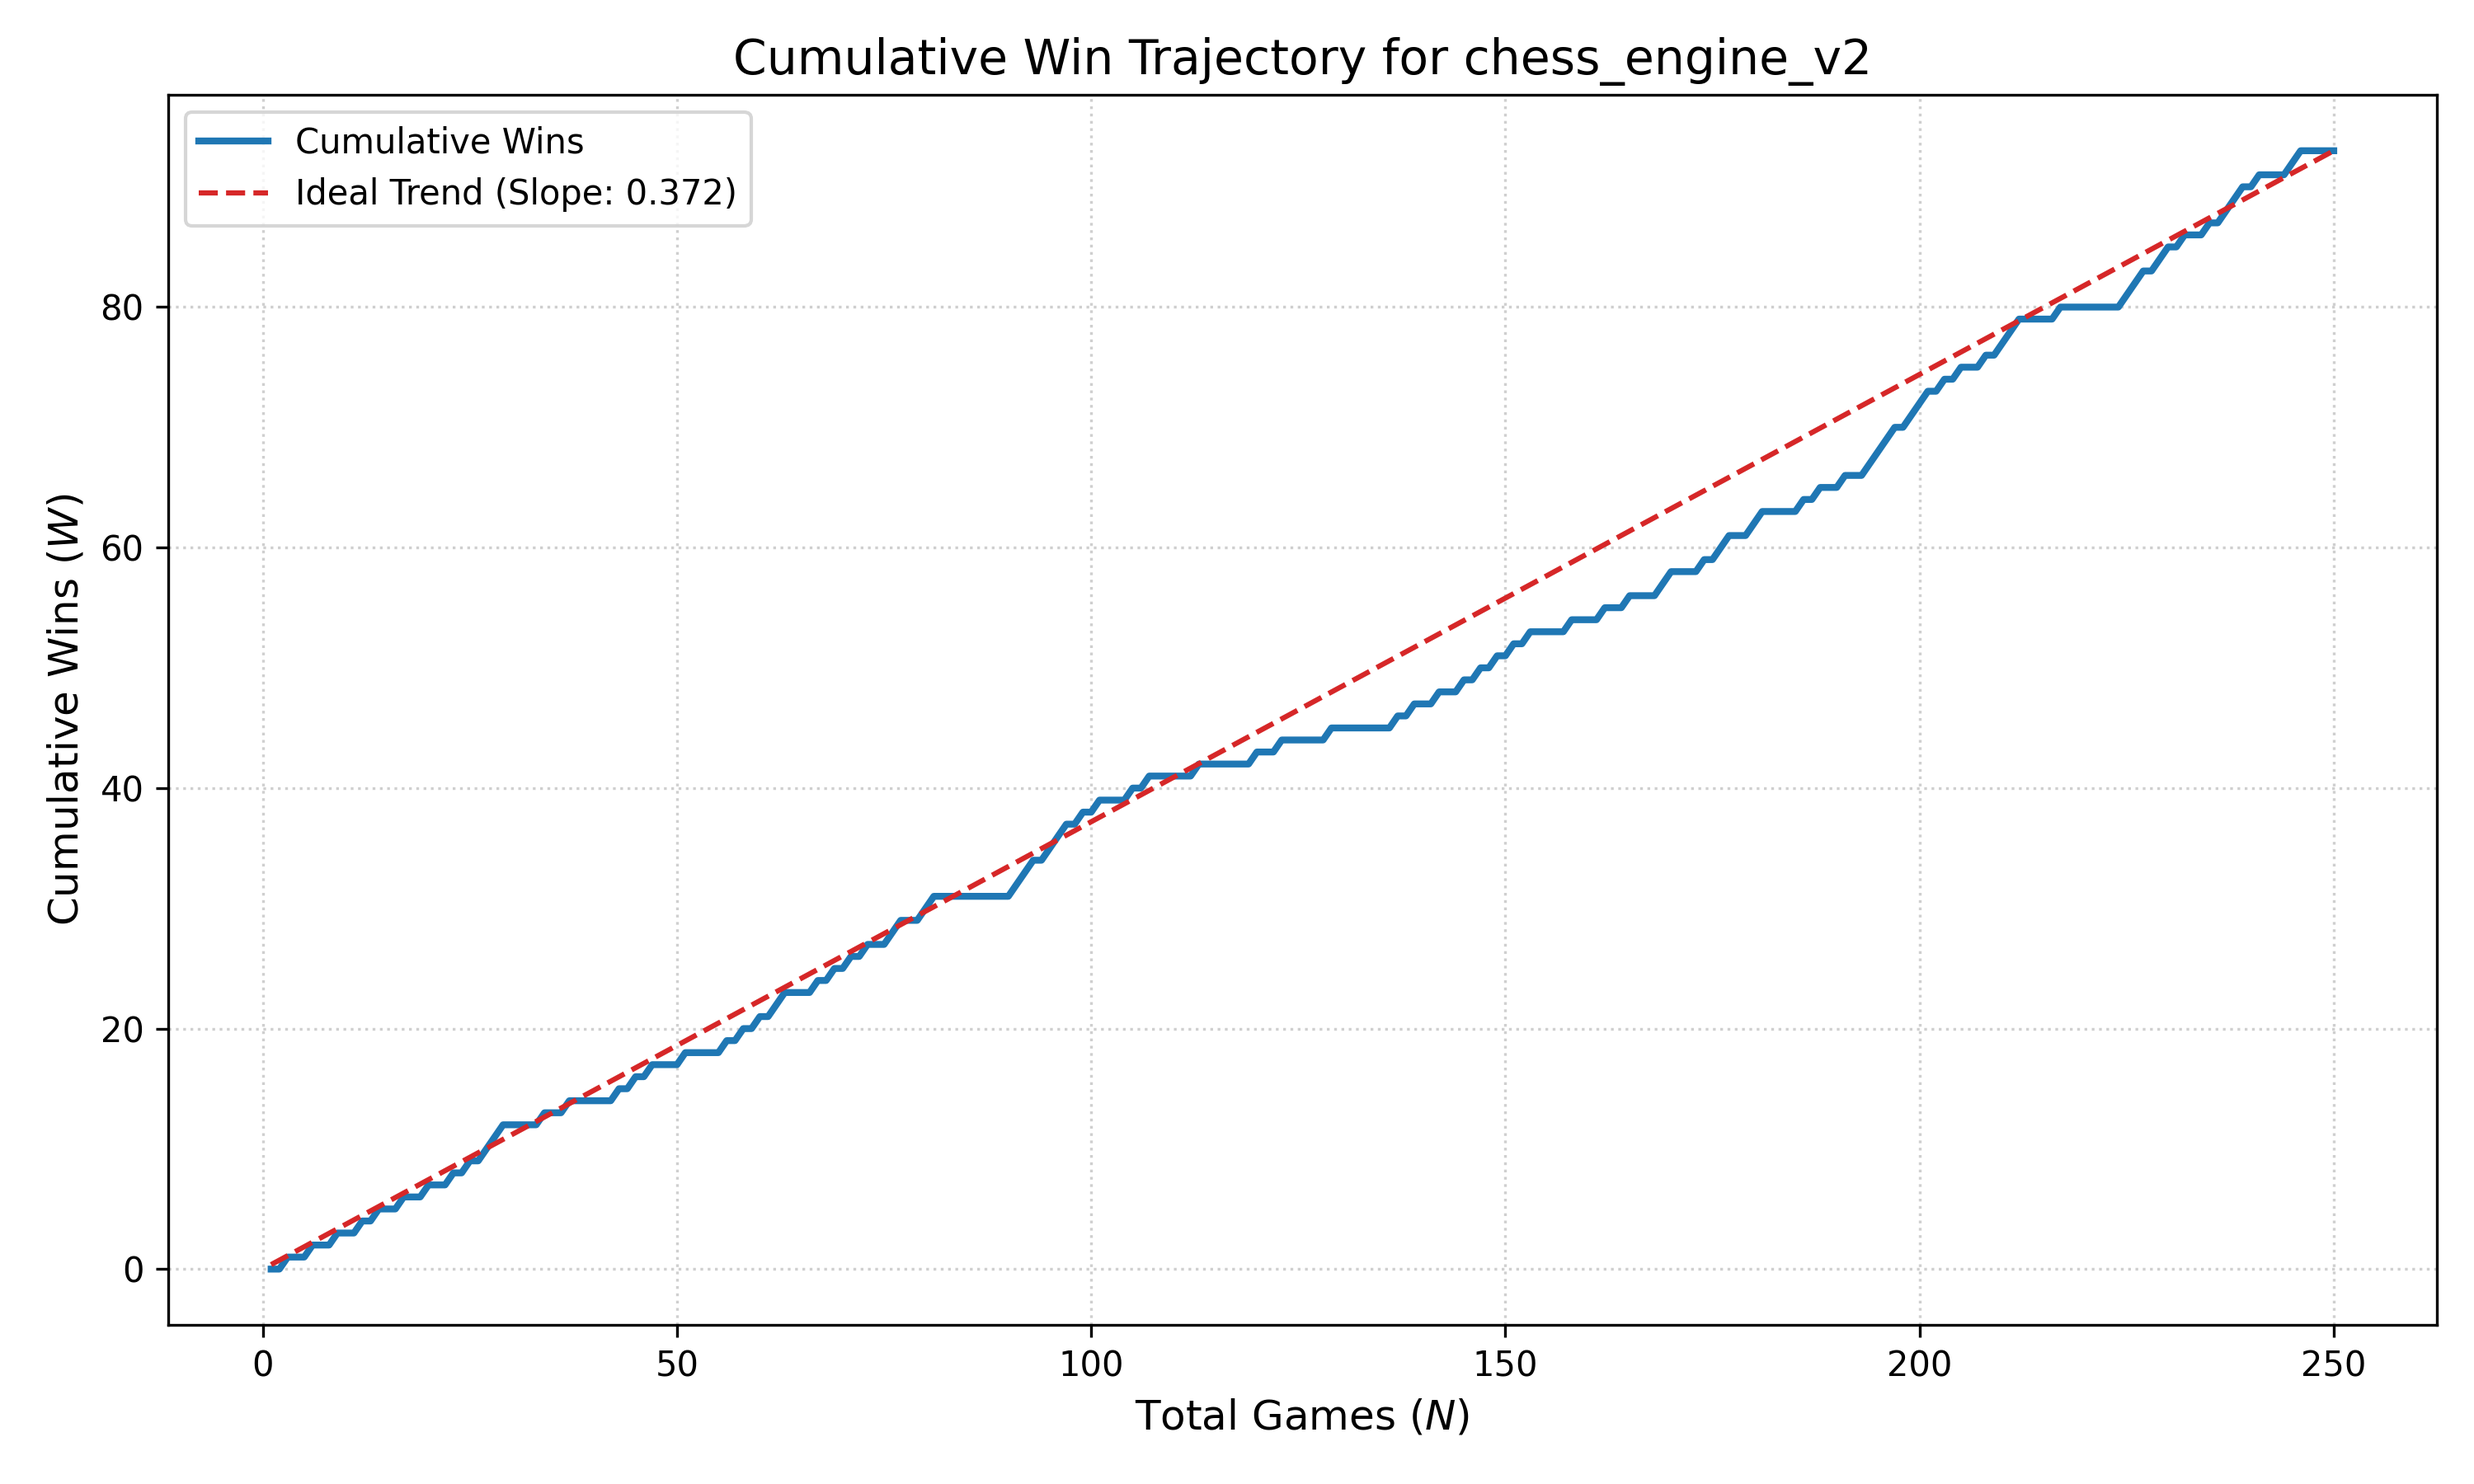
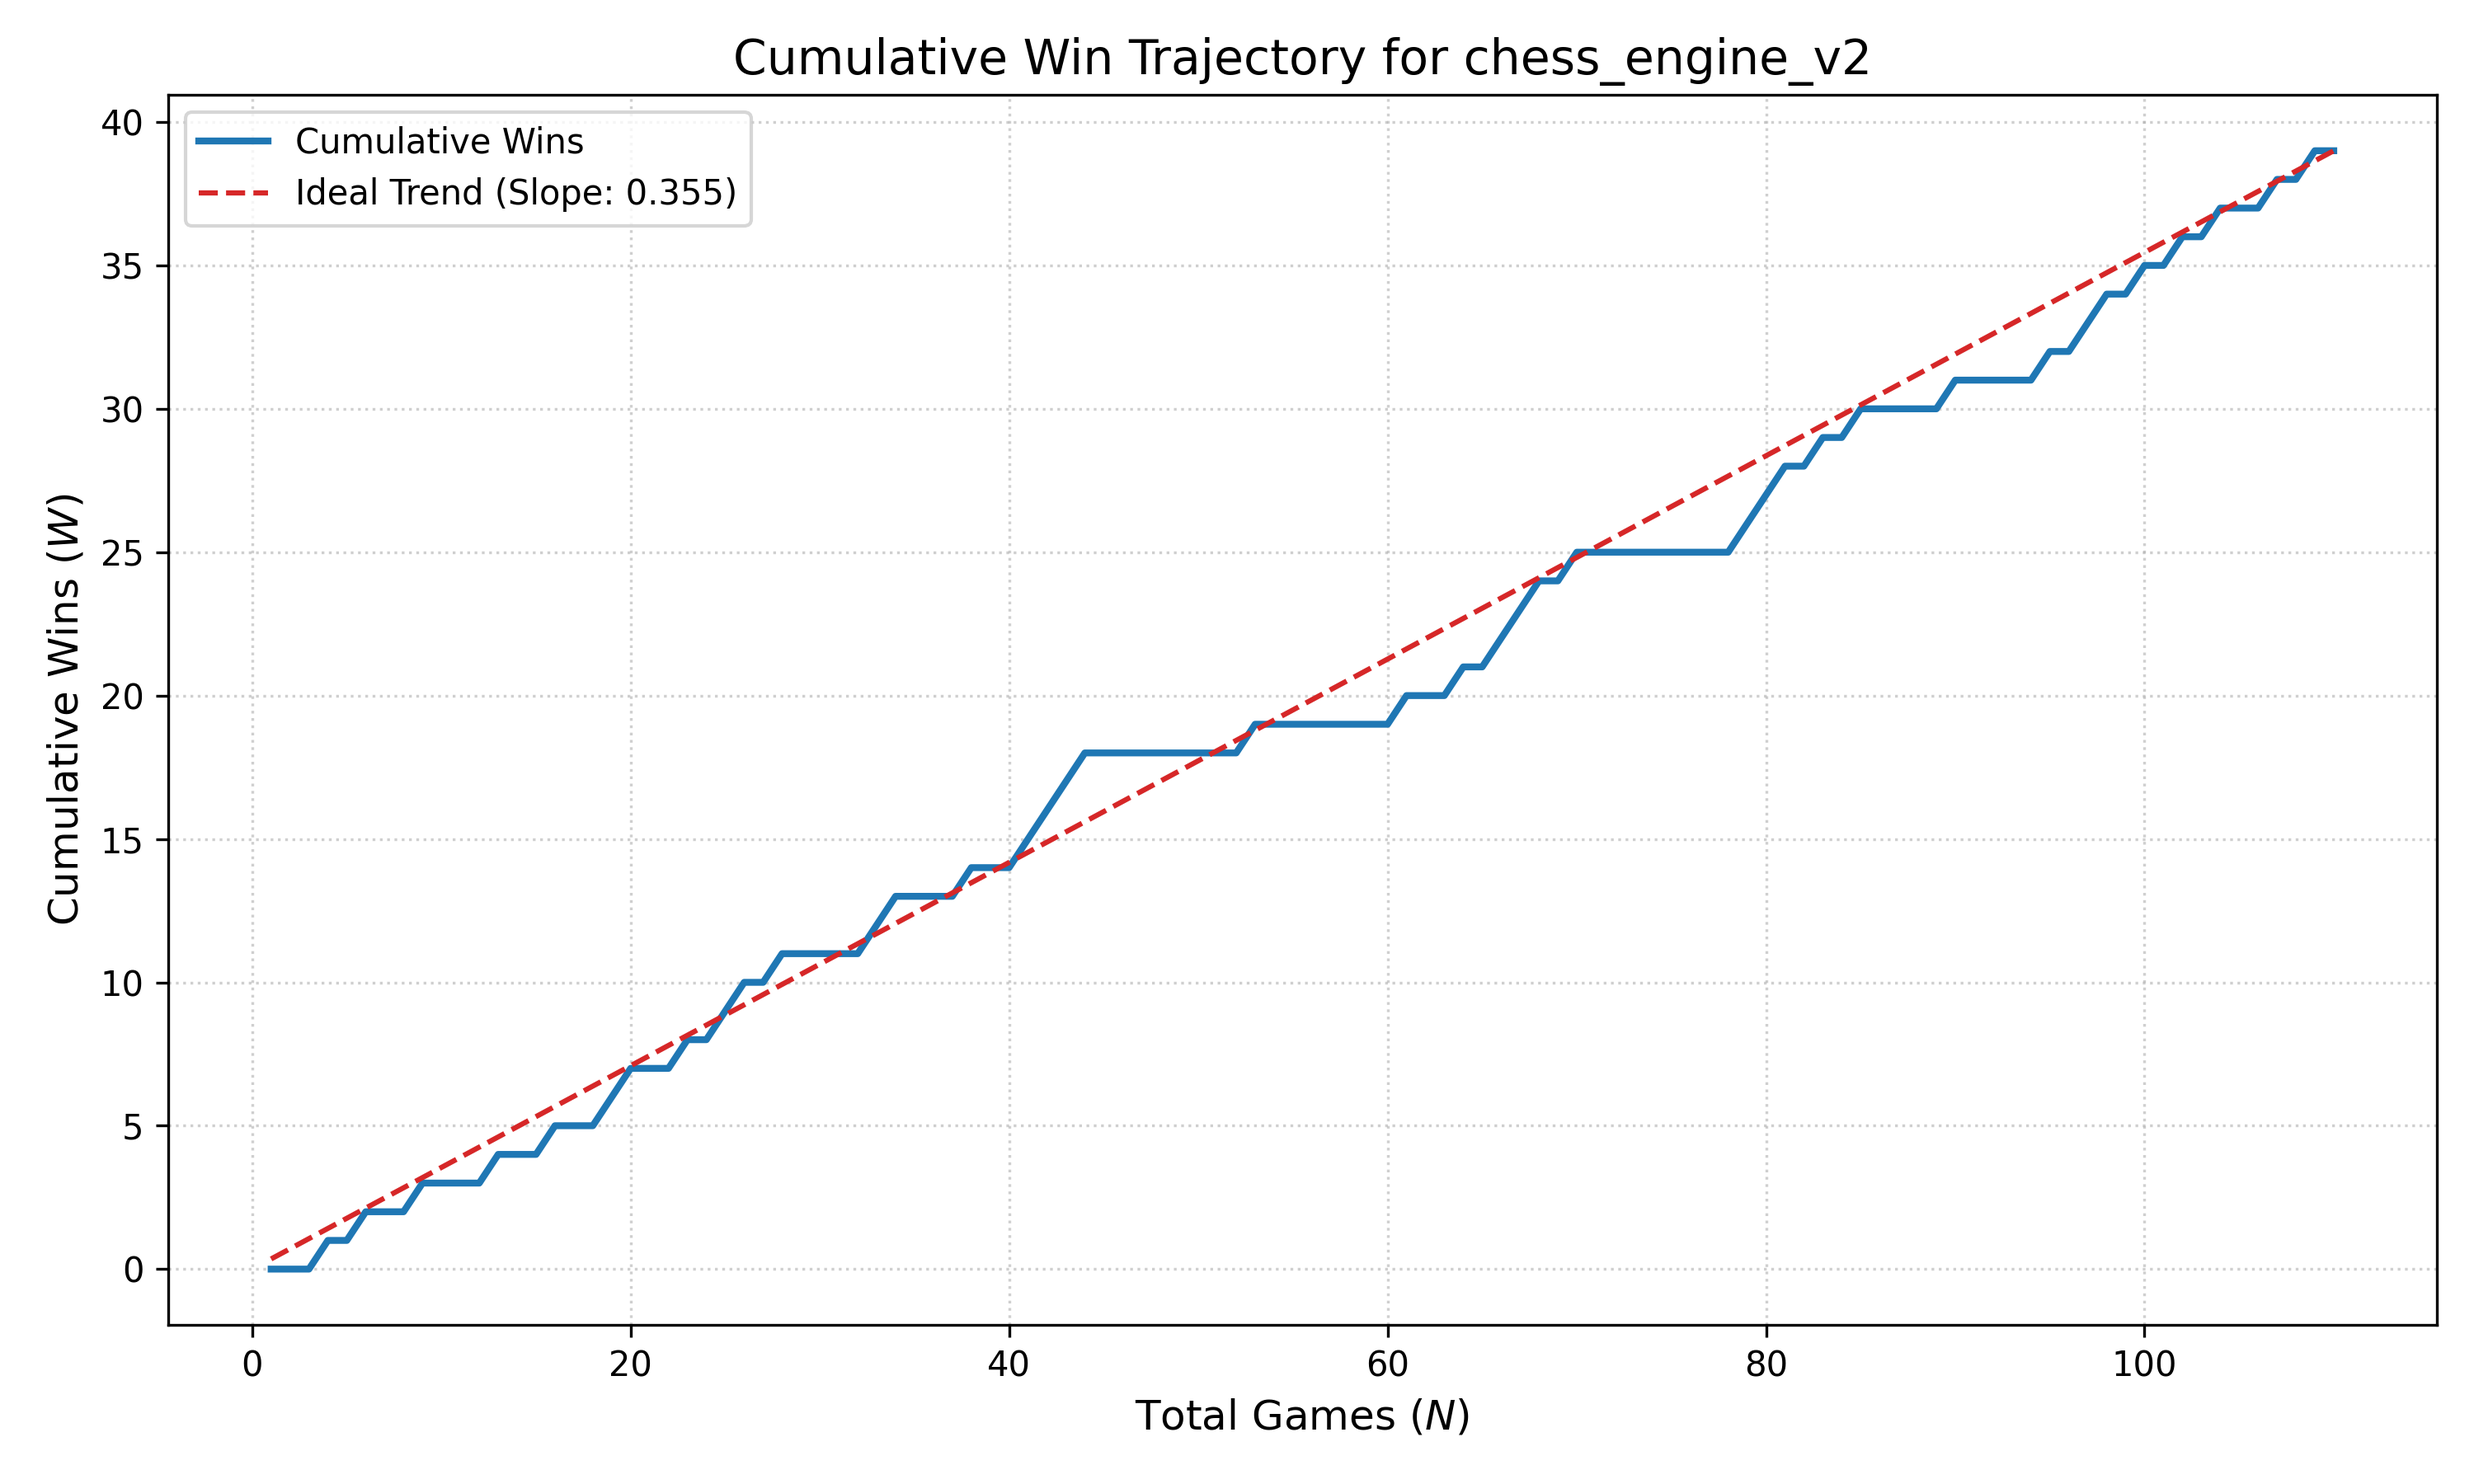
1. 調整歷史表參數 2. 修正前哨站方向 Bug 3. 統一v1, v2 4. 統一前對戰： 總對局數 : 110 局 戰績統計 : 勝 39 | 和 51 | 負 20 勝率(含和) : 58.64% 和局率 : 46.36% 相對 Elo 變化 : 60.62 95% 信賴區間 : [13.60, 109.96]

diff --git a/chess_engine_v2/chess_engine/search.py b/chess_engine_v2/chess_engine/search.py
@@ -45,7 +45,8 @@ from chess_engine.constants import (
     CONTINUATION_HISTORY_FACTOR, HISTORY_MAX_CONTINUATION, HISTORY_MAX_PAWN, PAWN_HISTORY_MASK,
     GOOD_QUIET_THRESHOLD,
     FIFTY_MOVE_RULE_LIMIT, FIFTY_MOVE_SCALE_THRESHOLD, FIFTY_MOVE_MAX_SCALE,
-    SEE_HISTORY_DIVISOR, LMR_CONT_HISTORY_MULT, LMR_CONT_HISTORY_DIVISOR,
+    SEE_HISTORY_DIVISOR,
+    HISTORY_WEIGHT_MAIN, HISTORY_WEIGHT_CONT_1, HISTORY_WEIGHT_CONT_2, HISTORY_WEIGHT_CONT_4,
     LMR_TABLE, ENABLE_MATE_DISTANCE_PRUNING
 )
 from chess_engine.bitboard_utils import find_piece_type_on_square, find_piece_type_on_square_side
@@ -1051,26 +1052,26 @@ def _search(piece_bbs, occupancy_bbs, game_state, depth, alpha, beta, search_con
             # Dynamic LMR Logic
             lmr = 0
             if ENABLE_LMR and depth >= LMR_MIN_DEPTH and is_quiet_move and quiet_move_counter >= LMR_MIN_QUIET_MOVE_INDEX:
-                # Get History Score for adjustment
+                # Get History Score for adjustment (V2-Tailored SNR weights)
                 aggressor_type = find_piece_type_on_square_side(piece_bbs, from_sq, game_state[0])
-                history_score = search_context.history_table[aggressor_type, to_sq]
+                history_score = search_context.history_table[aggressor_type, to_sq] * HISTORY_WEIGHT_MAIN
                 
                 # Add Multi-level Continuation History context to LMR
                 if ply > 0:
                     p1_move = search_context.move_stack[ply - 1]
                     p1_piece = search_context.piece_stack[ply - 1]
                     if p1_move != NO_MOVE and p1_piece != -1:
-                        history_score += search_context.continuation_history[0, p1_piece, get_to_square(p1_move), aggressor_type, to_sq] * 2
+                        history_score += search_context.continuation_history[0, p1_piece, get_to_square(p1_move), aggressor_type, to_sq] * HISTORY_WEIGHT_CONT_1
                 if ply > 1:
                     p2_move = search_context.move_stack[ply - 2]
                     p2_piece = search_context.piece_stack[ply - 2]
                     if p2_move != NO_MOVE and p2_piece != -1:
-                        history_score += search_context.continuation_history[1, p2_piece, get_to_square(p2_move), aggressor_type, to_sq]
+                        history_score += search_context.continuation_history[1, p2_piece, get_to_square(p2_move), aggressor_type, to_sq] * HISTORY_WEIGHT_CONT_2
                 if ply > 3:
                     p4_move = search_context.move_stack[ply - 4]
                     p4_piece = search_context.piece_stack[ply - 4]
                     if p4_move != NO_MOVE and p4_piece != -1:
-                        history_score += search_context.continuation_history[2, p4_piece, get_to_square(p4_move), aggressor_type, to_sq]
+                        history_score += search_context.continuation_history[2, p4_piece, get_to_square(p4_move), aggressor_type, to_sq] * HISTORY_WEIGHT_CONT_4
 
                 lmr = get_lmr_reduction(depth, legal_moves_tried, history_score, improving, is_pv)
 
@@ -1088,17 +1089,6 @@ def _search(piece_bbs, occupancy_bbs, game_state, depth, alpha, beta, search_con
                     to_rank = to_sq // 8
                     if (game_state[0] == 0 and to_rank >= 5) or (game_state[0] == 1 and to_rank <= 2):
                         lmr = max(0, lmr - 2)
-
-                # A4: Continuation History adjustment in LMR
-                if ply > 0:
-                    prev_mv = search_context.move_stack[ply - 1]
-                    if prev_mv != NO_MOVE:
-                        p_to = get_to_square(prev_mv)
-                        p_piece = find_piece_type_for_square(piece_bbs, p_to, 1 - game_state[0])
-                        if p_piece != -1:
-                            cont_score = search_context.continuation_history[0, p_piece, p_to, aggressor_type, to_sq]
-                            # Scale: ±1 reduction for V2 history scale (divisor 8192)
-                            lmr -= int(float(cont_score) / LMR_CONT_HISTORY_DIVISOR * LMR_CONT_HISTORY_MULT)
 
                 # Clamp LMR to avoid reducing below depth 1
                 lmr = max(0, min(lmr, search_depth - 1))

diff --git a/chess_engine_v2/chess_engine/evaluation.py b/chess_engine_v2/chess_engine/evaluation.py
@@ -853,7 +853,7 @@ def evaluate_attacks_mobility_threats(piece_bbs, occupancy_bbs):
         
         # Outpost Logic (White Knight)
         if not (black_pawn_attacks & BB_SQUARES[sq]):
-            if (PAWN_ATTACKS[BLACK, sq] & wp_bb):
+            if (PAWN_ATTACKS[WHITE, sq] & wp_bb):
                 rank = sq // 8
                 mg_outpost += OUTPOST_BONUS_KNIGHT[rank, 0]
                 eg_outpost += OUTPOST_BONUS_KNIGHT[rank, 1]
@@ -898,7 +898,7 @@ def evaluate_attacks_mobility_threats(piece_bbs, occupancy_bbs):
 
         # Outpost Logic (White Bishop)
         if not (black_pawn_attacks & BB_SQUARES[sq]):
-            if (PAWN_ATTACKS[BLACK, sq] & wp_bb):
+            if (PAWN_ATTACKS[WHITE, sq] & wp_bb):
                 rank = sq // 8
                 mg_outpost += OUTPOST_BONUS_BISHOP[rank, 0]
                 eg_outpost += OUTPOST_BONUS_BISHOP[rank, 1]
@@ -981,7 +981,7 @@ def evaluate_attacks_mobility_threats(piece_bbs, occupancy_bbs):
 
         # Outpost Logic (Black Knight)
         if not (white_pawn_attacks & BB_SQUARES[sq]):
-            if (PAWN_ATTACKS[WHITE, sq] & bp_bb):
+            if (PAWN_ATTACKS[BLACK, sq] & bp_bb):
                 rank = sq // 8
                 rel_rank = 7 - rank
                 mg_outpost -= OUTPOST_BONUS_KNIGHT[rel_rank, 0]
@@ -1027,7 +1027,7 @@ def evaluate_attacks_mobility_threats(piece_bbs, occupancy_bbs):
 
         # Outpost Logic (Black Bishop)
         if not (white_pawn_attacks & BB_SQUARES[sq]):
-            if (PAWN_ATTACKS[WHITE, sq] & bp_bb):
+            if (PAWN_ATTACKS[BLACK, sq] & bp_bb):
                 rank = sq // 8
                 rel_rank = 7 - rank
                 mg_outpost -= OUTPOST_BONUS_BISHOP[rel_rank, 0]

diff --git a/chess_engine_v2/chess_engine/constants.py b/chess_engine_v2/chess_engine/constants.py
@@ -578,10 +578,10 @@ ROOK_QUEEN_BATTERY_BONUS = 5000 # Bonus for Rook moving to same file/rank as Que
 
 # History Heuristics Constants
 MAX_HISTORY = 16384 # Max value for history table to prevent overflow and saturation
-HISTORY_MAX_MAIN = 7183
-HISTORY_MAX_BUTTERFLY = 7183
-HISTORY_MAX_CAPTURE = 10692
-HISTORY_MAX_CONTINUATION = 30000
+HISTORY_MAX_MAIN = 16384
+HISTORY_MAX_BUTTERFLY = 16384
+HISTORY_MAX_CAPTURE = 16384
+HISTORY_MAX_CONTINUATION = 16384
 HISTORY_MAX_PAWN = 8192
 
 PAWN_HISTORY_SIZE = 8192
@@ -594,9 +594,13 @@ FIFTY_MOVE_MAX_SCALE = 256
 
 # History tuning in Search
 SEE_HISTORY_DIVISOR = 512
-LMR_CONT_HISTORY_MULT = 1.0
-LMR_HISTORY_DIVISOR = 4096.0
-LMR_CONT_HISTORY_DIVISOR = 8192.0
+LMR_HISTORY_DIVISOR = 10240
+
+# History Score Weighting in LMR (must be int)
+HISTORY_WEIGHT_MAIN = 2
+HISTORY_WEIGHT_CONT_1 = 4
+HISTORY_WEIGHT_CONT_2 = 2
+HISTORY_WEIGHT_CONT_4 = 2
 
 CORRECTION_HISTORY_SIZE = 16384
 CORRECTION_HISTORY_MASK = 16383
@@ -650,7 +654,7 @@ ENABLE_HISTORY_PRUNING = True      # Enable pruning based on History Score
 PRUNING_SHALLOW_DEPTH = 8         # Prune moves only if depth is below this
 PRUNING_CAPTURE_SEE_MARGIN = -150 # Tightened from -200 (More pruning)
 PRUNING_QUIET_SEE_MARGIN = -80    # Tightened from -100 (More pruning)
-PRUNING_HISTORY_THRESHOLD = -400 # Adjusted from -1000 to match V2 linear history scale
+PRUNING_HISTORY_THRESHOLD = -600 # Adjusted from -1000 to match V2 linear history scale
 
 # Master switches for existing pruning techniques / 現有剪枝技術的總開關
 ENABLE_NMP = True           # Null Move Pruning

diff --git a/chess_engine_v2/chess_engine/search_heuristics.py b/chess_engine_v2/chess_engine/search_heuristics.py
@@ -377,7 +377,7 @@ def score_moves(piece_bbs, occupancy_bbs, game_state, moves, scores, move_count,
                     if prev_move_1 != NO_MOVE and prev_piece_1 != -1:
                         cont_score = search_context.continuation_history[0, prev_piece_1, get_to_square(prev_move_1), aggressor_type, to_square]
                         if cont_score != 0:
-                            score += cont_score * 2
+                            score += cont_score
 
                     if prev_move_2 != NO_MOVE and prev_piece_2 != -1:
                         cont_score = search_context.continuation_history[1, prev_piece_2, get_to_square(prev_move_2), aggressor_type, to_square]

diff --git a/tournament.py b/tournament.py
@@ -374,7 +374,7 @@ if __name__ == "__main__":
     parser.add_argument("--name1", default="chess_engine_v2", help="Name of the first engine (default: chess_engine_v2)")
     parser.add_argument("--name2", default="chess_engine", help="Name of the second engine (default: chess_engine)")
     parser.add_argument("--games", type=int, default=250, help="Number of games to play (default: 500)")
-    parser.add_argument("--time", type=int, default=1000, help="Time per move in ms (default: 500)")
+    parser.add_argument("--time", type=int, default=500, help="Time per move in ms (default: 500)")
 
     args = parser.parse_args()
 
